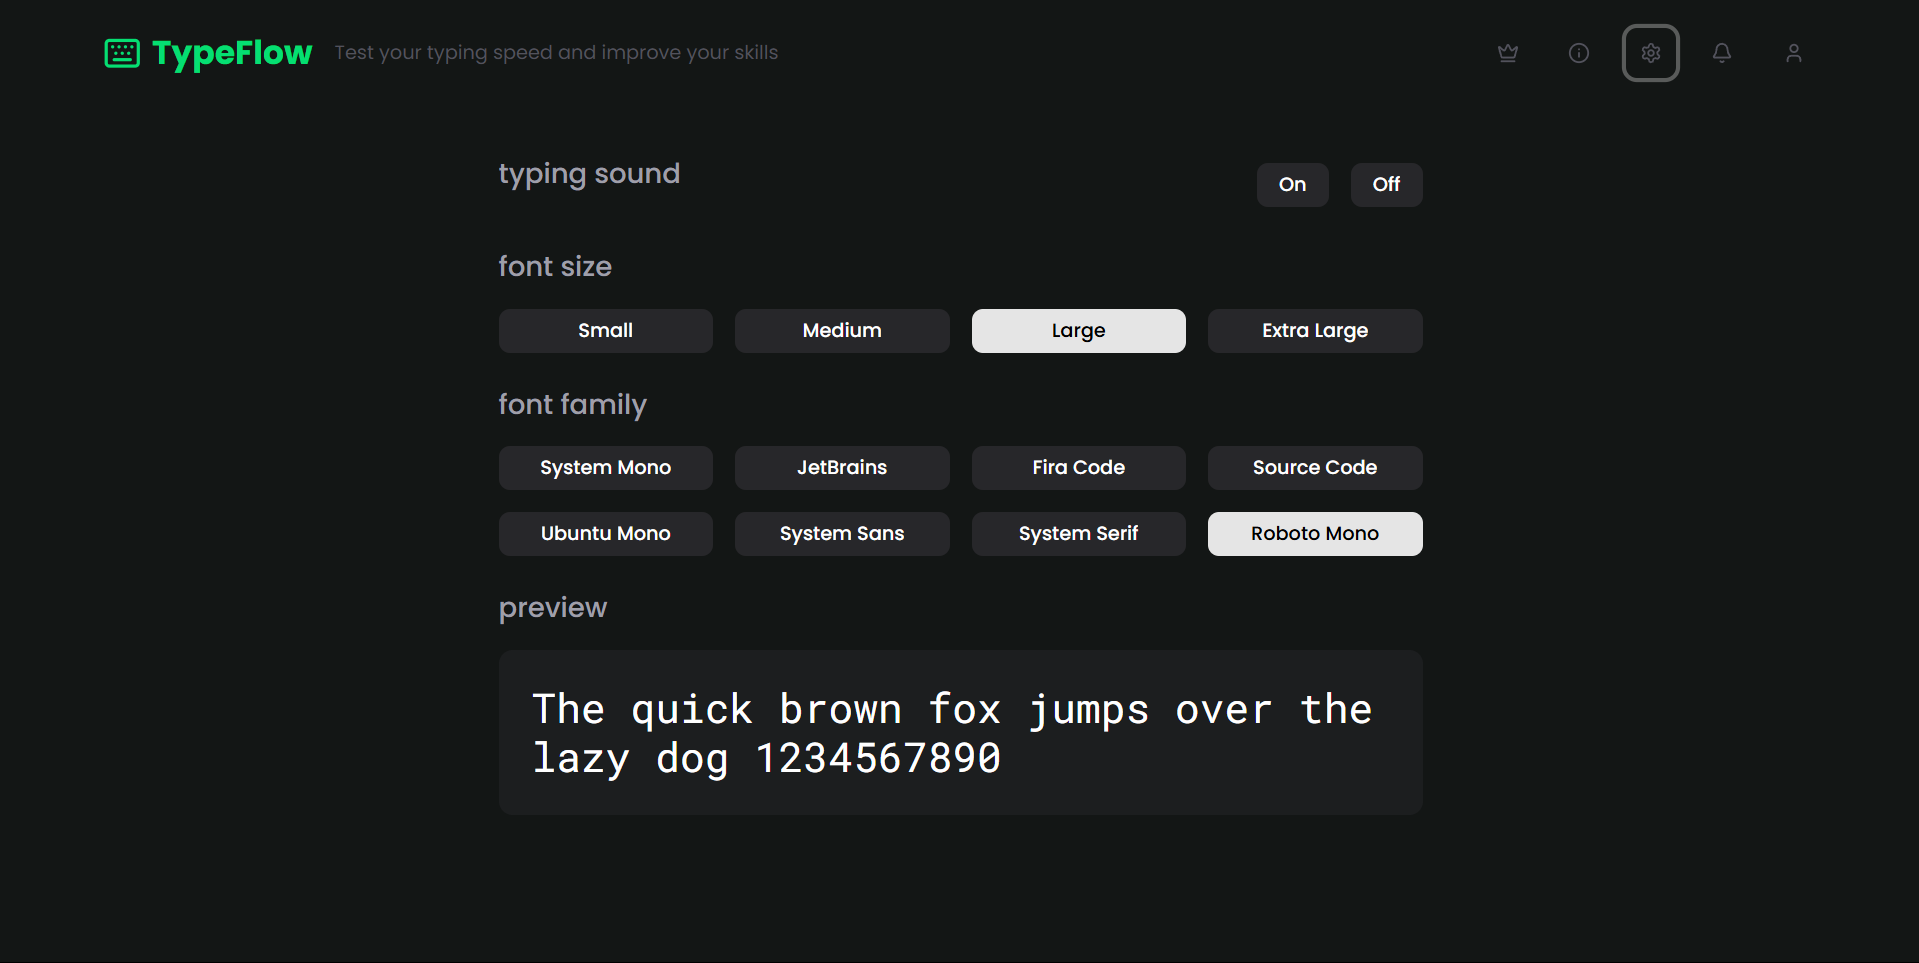
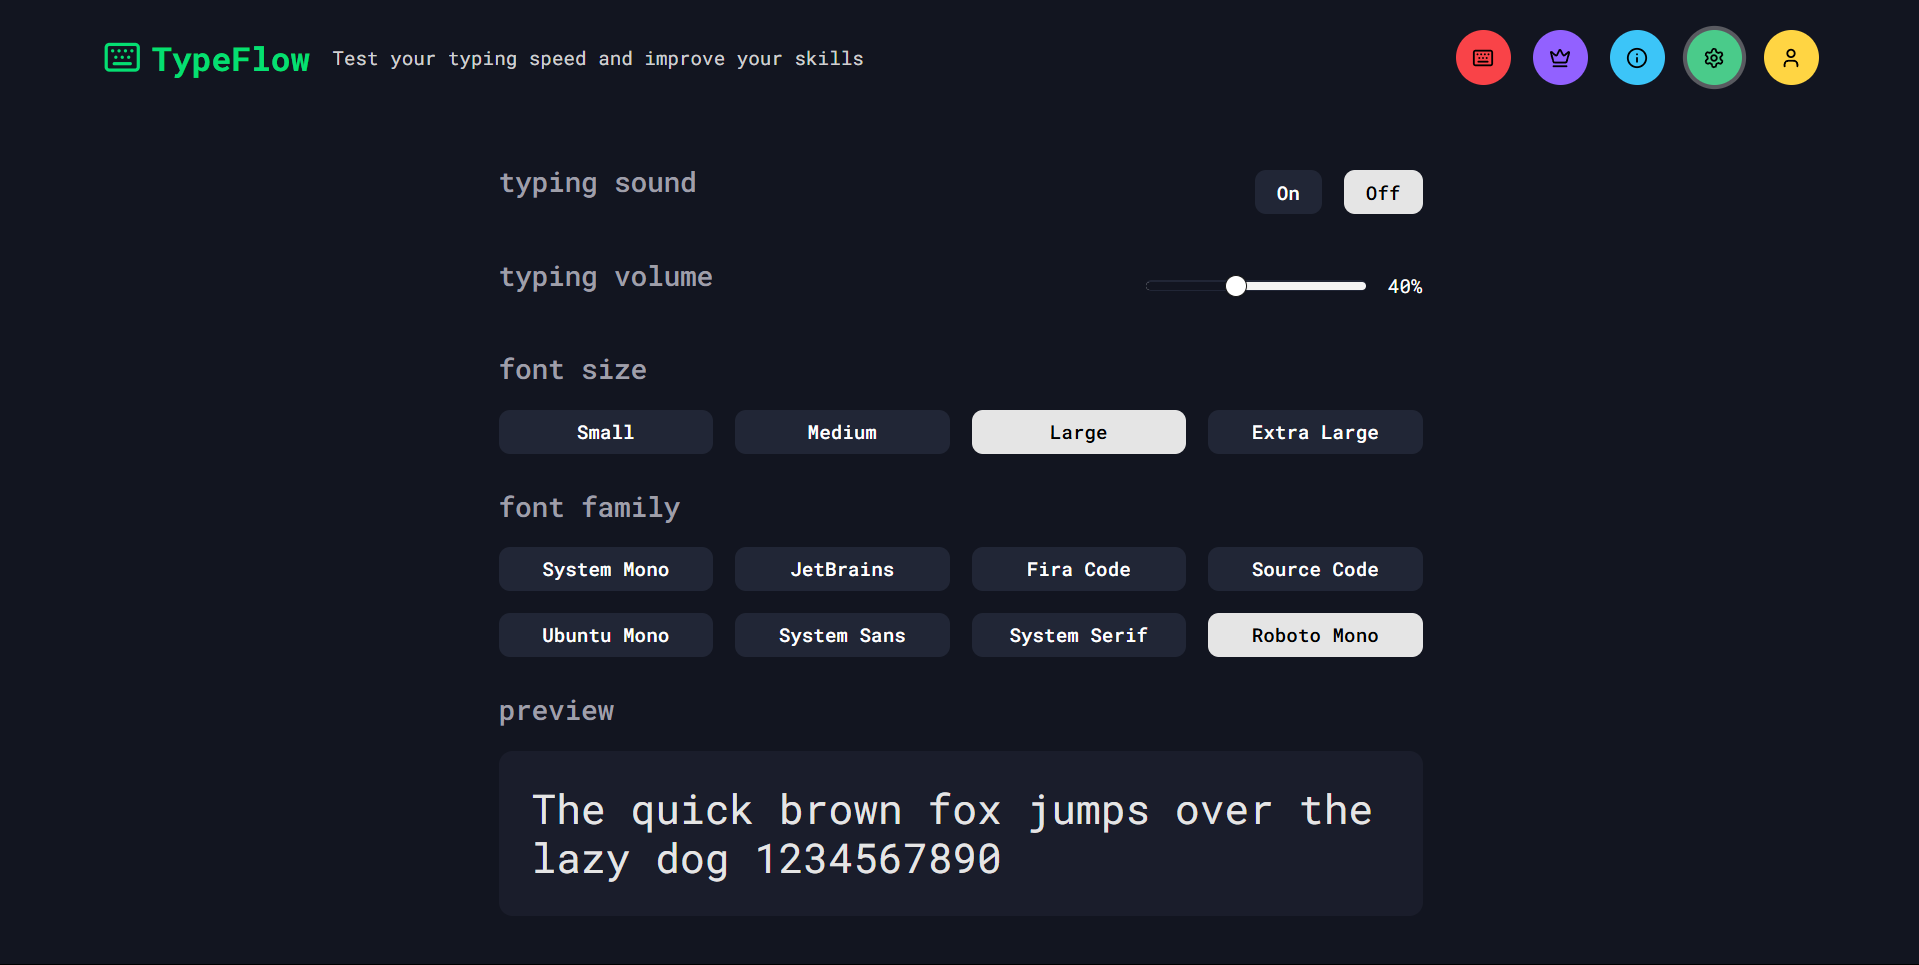
updated readme

diff --git a/README.md b/README.md
@@ -2,7 +2,7 @@
 
 A sleek, feature-rich typing test application built with Next.js and TypeScript, designed to help users measure and improve their typing speed and accuracy.
 
-![Homescreen](public/TypeFlow-Homescreen.png)
+![Homescreen](public/Homescreen.png)
 
 ## Features
 
@@ -20,8 +20,7 @@ A sleek, feature-rich typing test application built with Next.js and TypeScript,
 - Time-based tests (10s, 25s, 30s, 50s)
 - Word count modes (10, 25, 40, 50 words)
 - Difficulty levels (easy, medium, hard)
-
-![Settings](public/Settings.png)
+- Advanced modes (numbers, punctuation, quotes)
 
 ### Customization
 
@@ -33,6 +32,7 @@ A sleek, feature-rich typing test application built with Next.js and TypeScript,
   - System fonts (mono, sans, serif)
 - Adjustable font sizes (small, medium, large, xl)
 - Optional typing sound effects
+- Adjustable volume
 
 ### Performance Metrics
 
@@ -42,16 +42,39 @@ A sleek, feature-rich typing test application built with Next.js and TypeScript,
 - Real-time performance graph
 - Character error tracking
 
-![Results](public/Results.png)
+### Pages
+
+- Home
+- Leaderboard
+- About
+- Settings
+- Profile
 
 ## Tech Stack
 
-- Next.js 14 (App Router)
+- Next.js 15 (App Router)
 - TypeScript
+- NextAuth
+- Neon Postgre
+- PostgreSQL
+- Prisma
 - Tailwind CSS
+- Shadcn UI
 - Framer Motion
 - Chart.js
 - Zustand (State Management)
+- Zod
+- Vercel (Deployment)
+
+## Screenshots
+
+![Profile](public/Profile.png)
+
+![Settings](public/Settings.png)
+
+![Results](public/Result.png)
+
+![Test-Results](public/Profile2.png)
 
 ## Getting Started
 
@@ -95,33 +118,42 @@ npm run dev
 ## Project Structure
 
 ```
+
 ├── app/
-│ ├── components/
-│ │ ├── ui/
-│ │ │ ├── button.tsx
-│ │ │ └── menubar.tsx
-│ │ ├── Logo.tsx
-│ │ ├── Menu.tsx
-│ │ ├── Navbar.tsx
-│ │ ├── PerformanceGraph.tsx
-│ │ └── TypingTest.tsx
-│ ├── hooks/
-│ │ └── useTypingSound.ts
-│ ├── lib/
-│ │ ├── store.ts
-│ │ └── utils.ts
 │ ├── settings/
-│ │ └── page.tsx
-│ ├── utils/
-│ │ ├── calculations.ts
-│ │ └── words.ts
+│ ├── profile/
+│ ├── about/
+│ ├── leaderboard/
+│ ├── api/
 │ ├── favicon.ico
 │ ├── globals.css
 │ ├── layout.tsx
+│ ├── loading.tsx
 │ └── page.tsx
+├── components/
+│ ├── ui/
+│ ├── FormSuccess.tsx
+│ ├── FormError.tsx
+│ ├── Header.tsx
+│ ├── Socials.tsx
+│ ├── CardWrapper.tsx
+│ ├── RegisterForm.tsx
+│ ├── LoginForm.tsx
+│ ├── BackButton.tsx
+│ ├── Menu.tsx
+│ ├── Navbar.tsx
+│ ├── PerformanceGraph.tsx
+│ └── TypingTest.tsx
+├── hooks/
+├── lib/
+│ ├── db.ts
+│ ├── store.ts
+│ └── utils.ts
+├── utils/
+│ ├── calculations.ts
+│ └── words.ts
 ├── public/
 │ └── sounds/
-│ └── typewriter.wav
 ├── .env
 ├── next.config.js
 ├── package.json
@@ -136,6 +168,6 @@ Contributions are welcome! Please feel free to submit a Pull Request.
 
 ## Acknowledgments
 
+- Inspired by MonkeyType
 - Font families provided by Google Fonts
 - Word lists curated for typing practice
-- Inspired by MonkeyType
